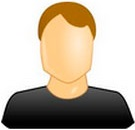
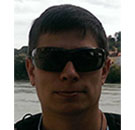
ДЗ №1 мое резюме (заменил фотку)

diff --git a/index.html b/index.html
@@ -11,7 +11,7 @@
 			<p>Кобылянский Сергей Витальевич</p>
 		</div> <!-- end header -->
 		<div class="foto">
-			<img src="img/foto1.jpg" alt="Foto_Ivanov_Ivan_Ivanovich" width="135" height="130">
+			<img src="img/foto1.jpg" alt="Foto_Sergey_Kobylansky" width="135" height="130">
 		</div> <!-- end foto -->
 		<div class="college">
 			<p>Студент курсов GoIT</p>
